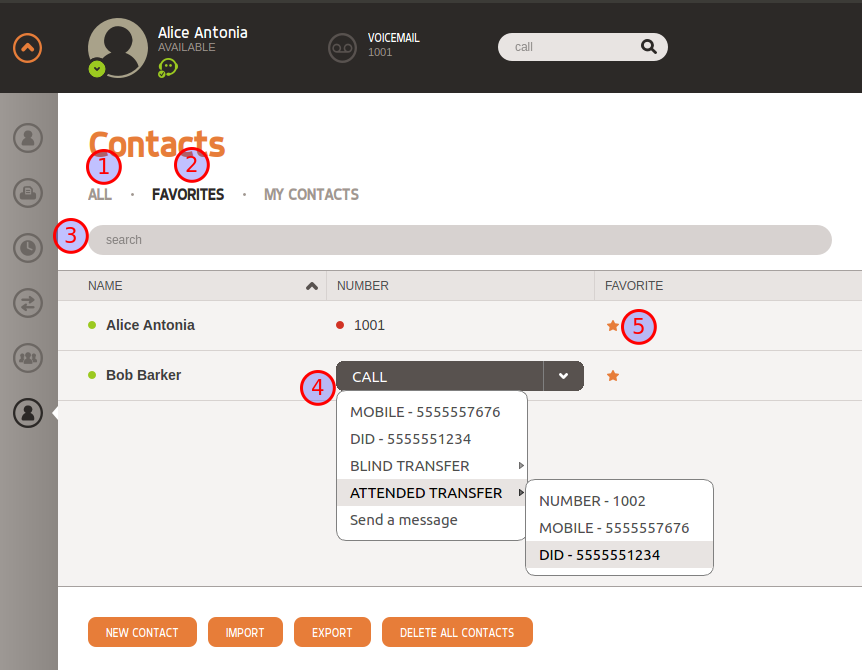
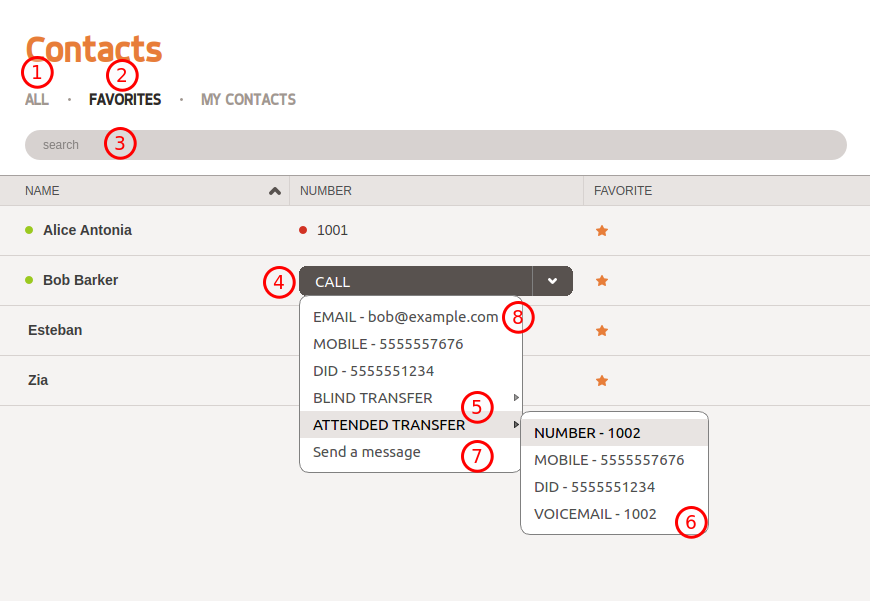
People: update description and screenshot

diff --git a/source/cti_client/xlets/people.rst b/source/cti_client/xlets/people.rst
@@ -17,8 +17,12 @@ phone, status and other information configured by the administrator.
 #. Display results of the search
 #. Display favorite contacts
 #. Search contacts
-#. Call, transfer or chat with the selected contact
+#. Call a contact
+#. Transfer a call to a contact
+#. Transfer a call to a contact's voicemail
 #. Bookmark/unmark the contact as a favorite
+#. Chat with a contact
+#. Send an email to a contact
 
 
 .. figure:: /cti_client/xlets/images/cti_client-people-personal.png
